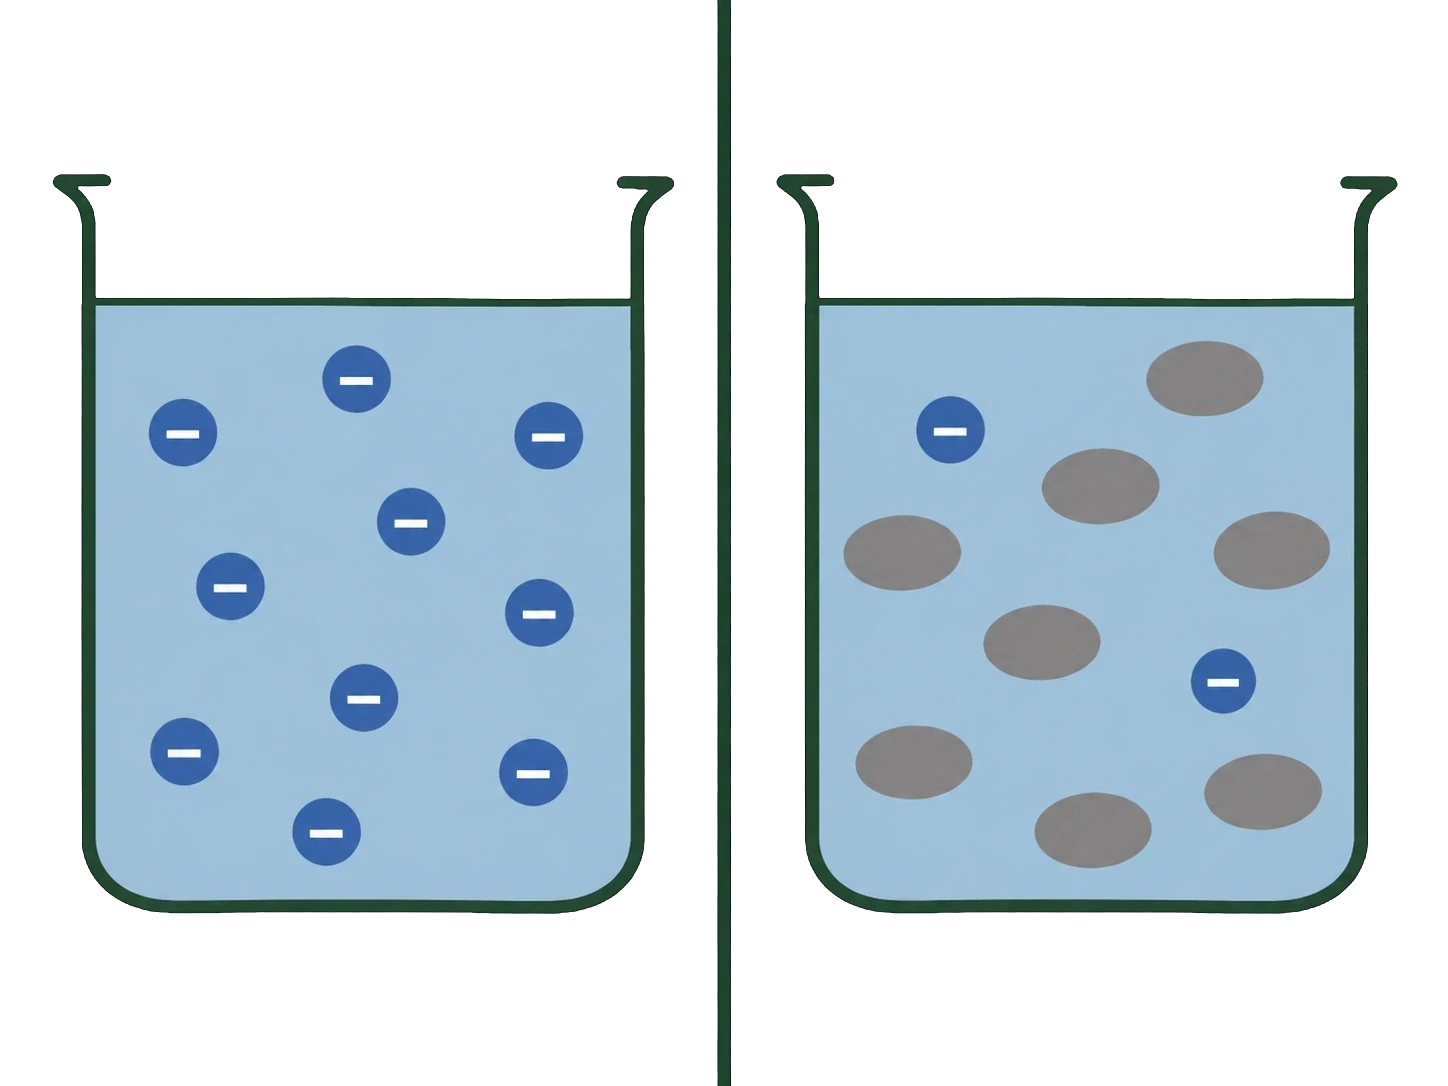
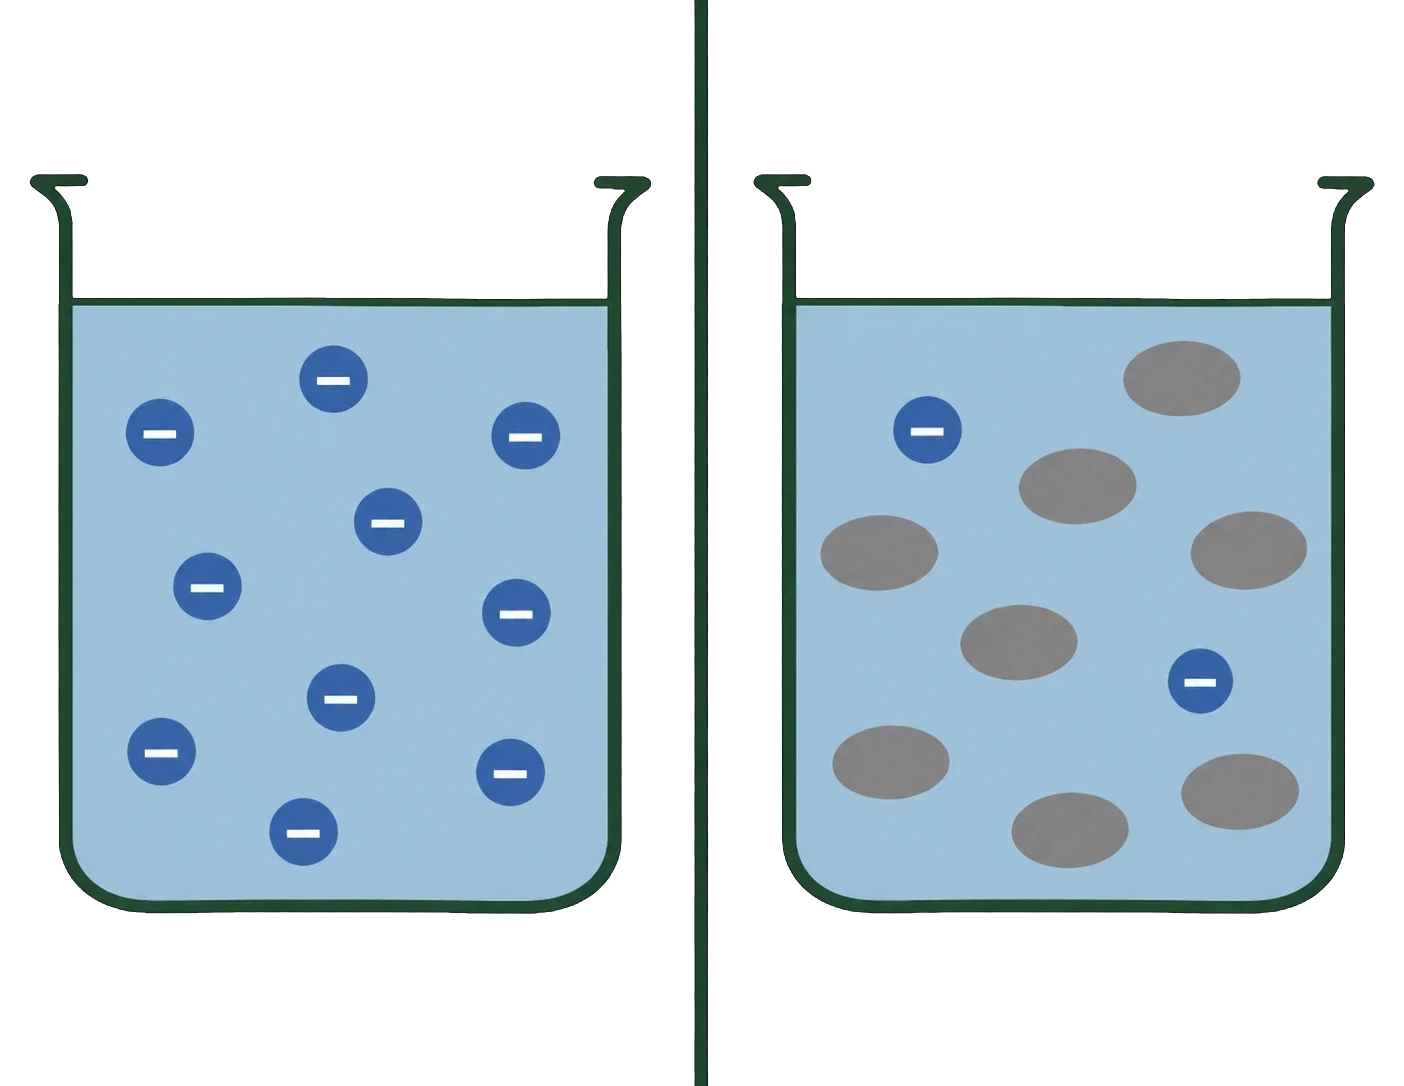
nyckla-gron.js: valbar beskärning (--beskar, marginal 2 % av bredden); fortvalning.webp beskuren 1448x1086 → 1384x329, stark-och-svag-bas.webp sidorna

diff --git a/verktyg/nyckla-gron.js b/verktyg/nyckla-gron.js
@@ -1,18 +1,26 @@
 // nyckla-gron.js – nycklar bort ren grön bakgrund (#00ff00, KOMPONENTER 9.0) ur en AI-bild och skriver
 // en webp med transparens. Körs i headless Chromium via verktyg/verifiera.js (canvas), ingen npm.
-// Kör: node verktyg/nyckla-gron.js <in.webp|png> [ut.webp]     (ut utelämnat = skriver över in-filen)
+// Kör: node verktyg/nyckla-gron.js <in.webp|png> [ut.webp] [--beskar [procent]]
+//      ut utelämnat = skriver över in-filen. --beskar (valbart, inte tvingande) beskär till motivets
+//      bounding box plus en marginal på 2 % av bildens bredd (annat tal: --beskar 4) – för bilder som
+//      levererats med mycket tomt utrymme runt motivet. Utan flaggan behålls bildens geometri.
+//      En redan nycklad bild (genomskinliga hörn) kan köras igen enbart för beskärning.
 //
 // Metod: pixlar nära ren grön (låg R och B, hög G) → alfa 0; en smal övergångszon får mjuk kant, och
 // grönstick i kantpixlar tas bort (G begränsas till max(R, B)) så att konturerna inte får grön halo.
-// Kontroll efteråt: andel genomskinligt, kvarvarande gröna pixlar, och att motivet inte innehåller
-// ren grön (då hade den nycklats bort – motivet får aldrig innehålla färgen).
+// Kontroll efteråt: andel genomskinligt, kvarvarande gröna pixlar, och att hörnen blev genomskinliga
+// (annars var bakgrunden inte #00ff00). Motivet får aldrig innehålla färgen.
 'use strict';
 const fs = require('fs'), path = require('path');
 const { spawnSync } = require('child_process');
-const inFil = process.argv[2], utFil = process.argv[3] || process.argv[2];
-if (!inFil || !fs.existsSync(inFil)) { console.error('användning: node verktyg/nyckla-gron.js <in.webp> [ut.webp]'); process.exit(2); }
+const argv = process.argv.slice(2);
+const bi = argv.indexOf('--beskar');
+const BESKAR = bi >= 0;
+const MARGINAL = BESKAR && argv[bi + 1] && /^\d+(\.\d+)?$/.test(argv[bi + 1]) ? Number(argv[bi + 1]) : 2;
+const filer = argv.filter((a, i) => !a.startsWith('--') && !(bi >= 0 && i === bi + 1 && /^\d+(\.\d+)?$/.test(a)));
+const inFil = filer[0], utFil = filer[1] || filer[0];
+if (!inFil || !fs.existsSync(inFil)) { console.error('användning: node verktyg/nyckla-gron.js <in.webp> [ut.webp] [--beskar [procent]]'); process.exit(2); }
 const abs = path.resolve(inFil);
-const url = 'file:///' + abs.replace(/\\/g, '/').replace(/ /g, '%20');
 // tom sida i samma mapp som bilden så att canvas får läsa pixlarna (samma "origin" under --allow-file-access-from-files)
 const sida = path.join(path.dirname(abs), `_nyckla-${process.pid}.html`);
 fs.writeFileSync(sida, '<!DOCTYPE html><html><body></body></html>');
@@ -26,15 +34,30 @@ fs.writeFileSync(probe, `(async () => {
   const T0 = 120, T1 = 60;   // ≥ T0 → helt bort; T1..T0 → mjuk kant
   let bort = 0, mjuk = 0, kvarGron = 0;
   for (let i = 0; i < d.length; i += 4) {
+    if (d[i + 3] === 0) { bort++; continue; }   // redan genomskinlig (omkörning)
     const g = gron(i);
     if (g >= T0) { d[i + 3] = 0; bort++; }
     else if (g > T1) { d[i + 3] = Math.round(d[i + 3] * (T0 - g) / (T0 - T1)); mjuk++; d[i + 1] = Math.max(d[i], d[i + 2]); }
-    else if (g > 25 && d[i + 3] > 0) { d[i + 1] = Math.max(d[i], d[i + 2]) + 25; kvarGron++; }   // grönstick i kantpixlar
+    else if (g > 25) { d[i + 1] = Math.max(d[i], d[i + 2]) + 25; kvarGron++; }   // grönstick i kantpixlar
   }
   ctx.putImageData(im, 0, 0);
   // hörnkontroll: var bakgrunden verkligen grön?
-  const horn = [[0, 0], [w - 1, 0], [0, h - 1], [w - 1, h - 1]].map(([x, y]) => { const i = (y * w + x) * 4; return [d[i], d[i + 1], d[i + 2], d[i + 3]]; });
-  return { w, h, bort: Math.round(bort / (w * h) * 1000) / 10, mjuk: Math.round(mjuk / (w * h) * 1000) / 10, grönstickKorrigerade: kvarGron, hornAlfa: horn.map(p => p[3]), data: c.toDataURL('image/webp', 0.92) };
+  const horn = [[0, 0], [w - 1, 0], [0, h - 1], [w - 1, h - 1]].map(([x, y]) => d[(y * w + x) * 4 + 3]);
+  // valbar beskärning: bounding box för alfa > 8, plus marginal i procent av bredden
+  let beskuren = null, ut = c;
+  if (${BESKAR}) {
+    let x0 = w, y0 = h, x1 = -1, y1 = -1;
+    for (let y = 0; y < h; y++) for (let x = 0; x < w; x++) { if (d[(y * w + x) * 4 + 3] > 8) { if (x < x0) x0 = x; if (x > x1) x1 = x; if (y < y0) y0 = y; if (y > y1) y1 = y; } }
+    const m = Math.round(w * ${MARGINAL} / 100);
+    x0 = Math.max(0, x0 - m); y0 = Math.max(0, y0 - m); x1 = Math.min(w - 1, x1 + m); y1 = Math.min(h - 1, y1 + m);
+    const bw = x1 - x0 + 1, bh = y1 - y0 + 1;
+    if (bw > 0 && bh > 0 && (bw < w || bh < h)) {
+      const c2 = document.createElement('canvas'); c2.width = bw; c2.height = bh;
+      c2.getContext('2d').drawImage(c, x0, y0, bw, bh, 0, 0, bw, bh);
+      ut = c2; beskuren = { x0, y0, bw, bh, bortUpp: y0, bortNer: h - 1 - y1, bortVanster: x0, bortHoger: w - 1 - x1 };
+    } else { beskuren = { oforandrad: true }; }
+  }
+  return { w, h, bort: Math.round(bort / (w * h) * 1000) / 10, mjuk: Math.round(mjuk / (w * h) * 1000) / 10, grönstickKorrigerade: kvarGron, hornAlfa: horn, beskuren, data: ut.toDataURL('image/webp', 0.92) };
 })()`);
 const res = spawnSync('node', [path.join(__dirname, 'verifiera.js'), 'file:///' + sida.replace(/\\/g, '/').replace(/ /g, '%20'), probe, '--wait', '300', '--timeout', '120000'], { encoding: 'utf8', maxBuffer: 64 * 1024 * 1024 });
 fs.unlinkSync(sida); fs.unlinkSync(probe);
@@ -46,4 +69,6 @@ const p = o.probe;
 if (!p || p.FEL) { console.error('nyckling misslyckades:', JSON.stringify(p)); process.exit(1); }
 if (p.hornAlfa.some(a => a !== 0)) { console.error(`hörnen är inte genomskinliga efter nyckling (alfa ${p.hornAlfa.join(',')}) – var bakgrunden verkligen #00ff00?`); process.exit(1); }
 fs.writeFileSync(utFil, Buffer.from(p.data.split(',')[1], 'base64'));
-console.log(`${path.basename(utFil)}: ${p.w}x${p.h}, ${p.bort}% bort, ${p.mjuk}% mjuk kant, ${p.grönstickKorrigerade} kantpixlar avgrönade → ${fs.statSync(utFil).size} byte webp med alfa`);
+const b = p.beskuren;
+const beskText = !b ? '' : b.oforandrad ? ', beskärning: inget att ta bort' : `, beskuren till ${b.bw}x${b.bh} (bort: ${b.bortUpp} upp, ${b.bortNer} ner, ${b.bortVanster} vänster, ${b.bortHoger} höger px; marginal ${MARGINAL} %)`;
+console.log(`${path.basename(utFil)}: ${p.w}x${p.h}, ${p.bort}% genomskinligt, ${p.mjuk}% mjuk kant, ${p.grönstickKorrigerade} kantpixlar avgrönade${beskText} → ${fs.statSync(utFil).size} byte webp med alfa`);
